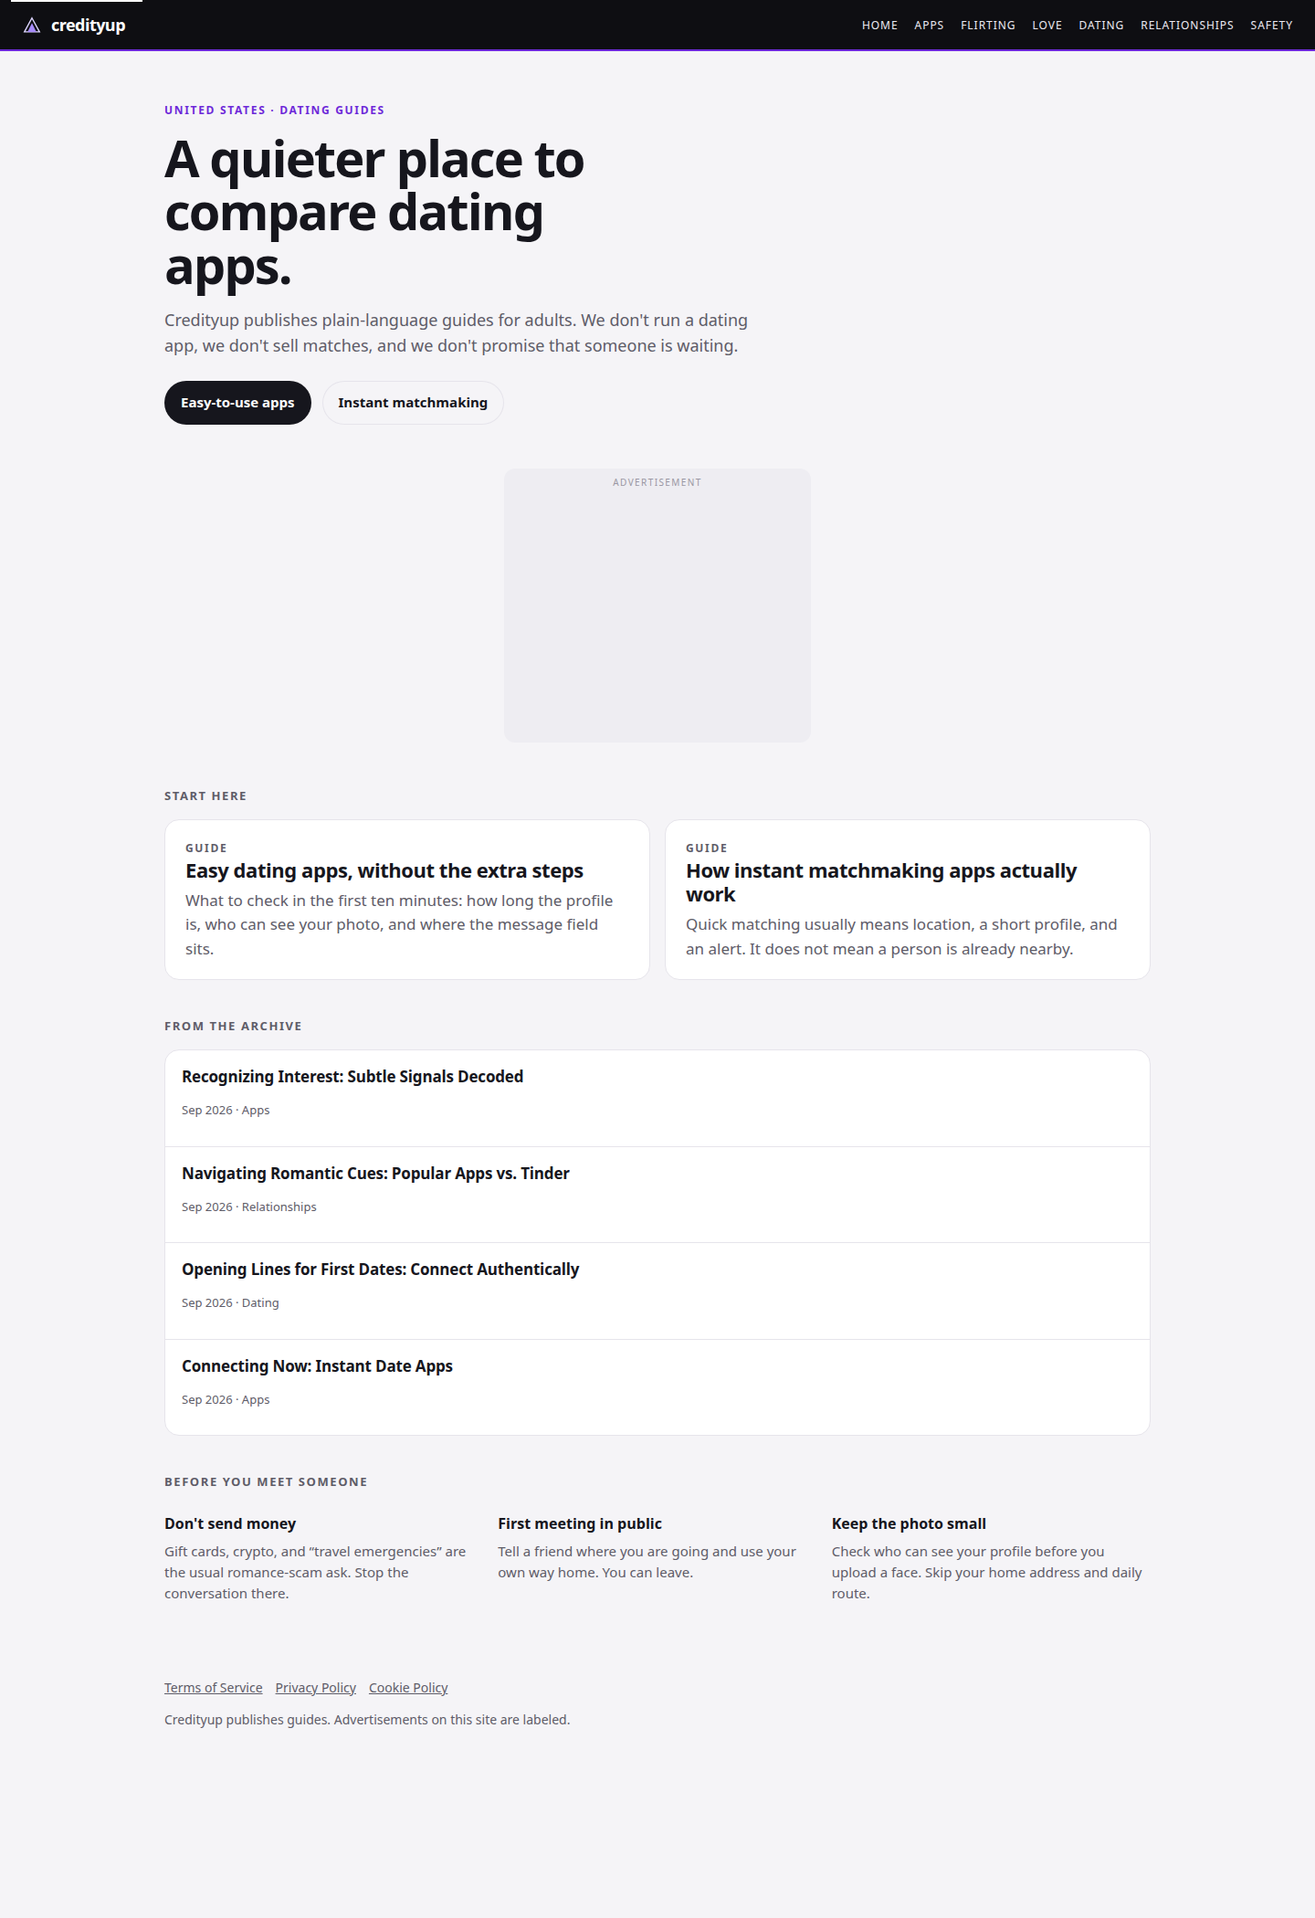
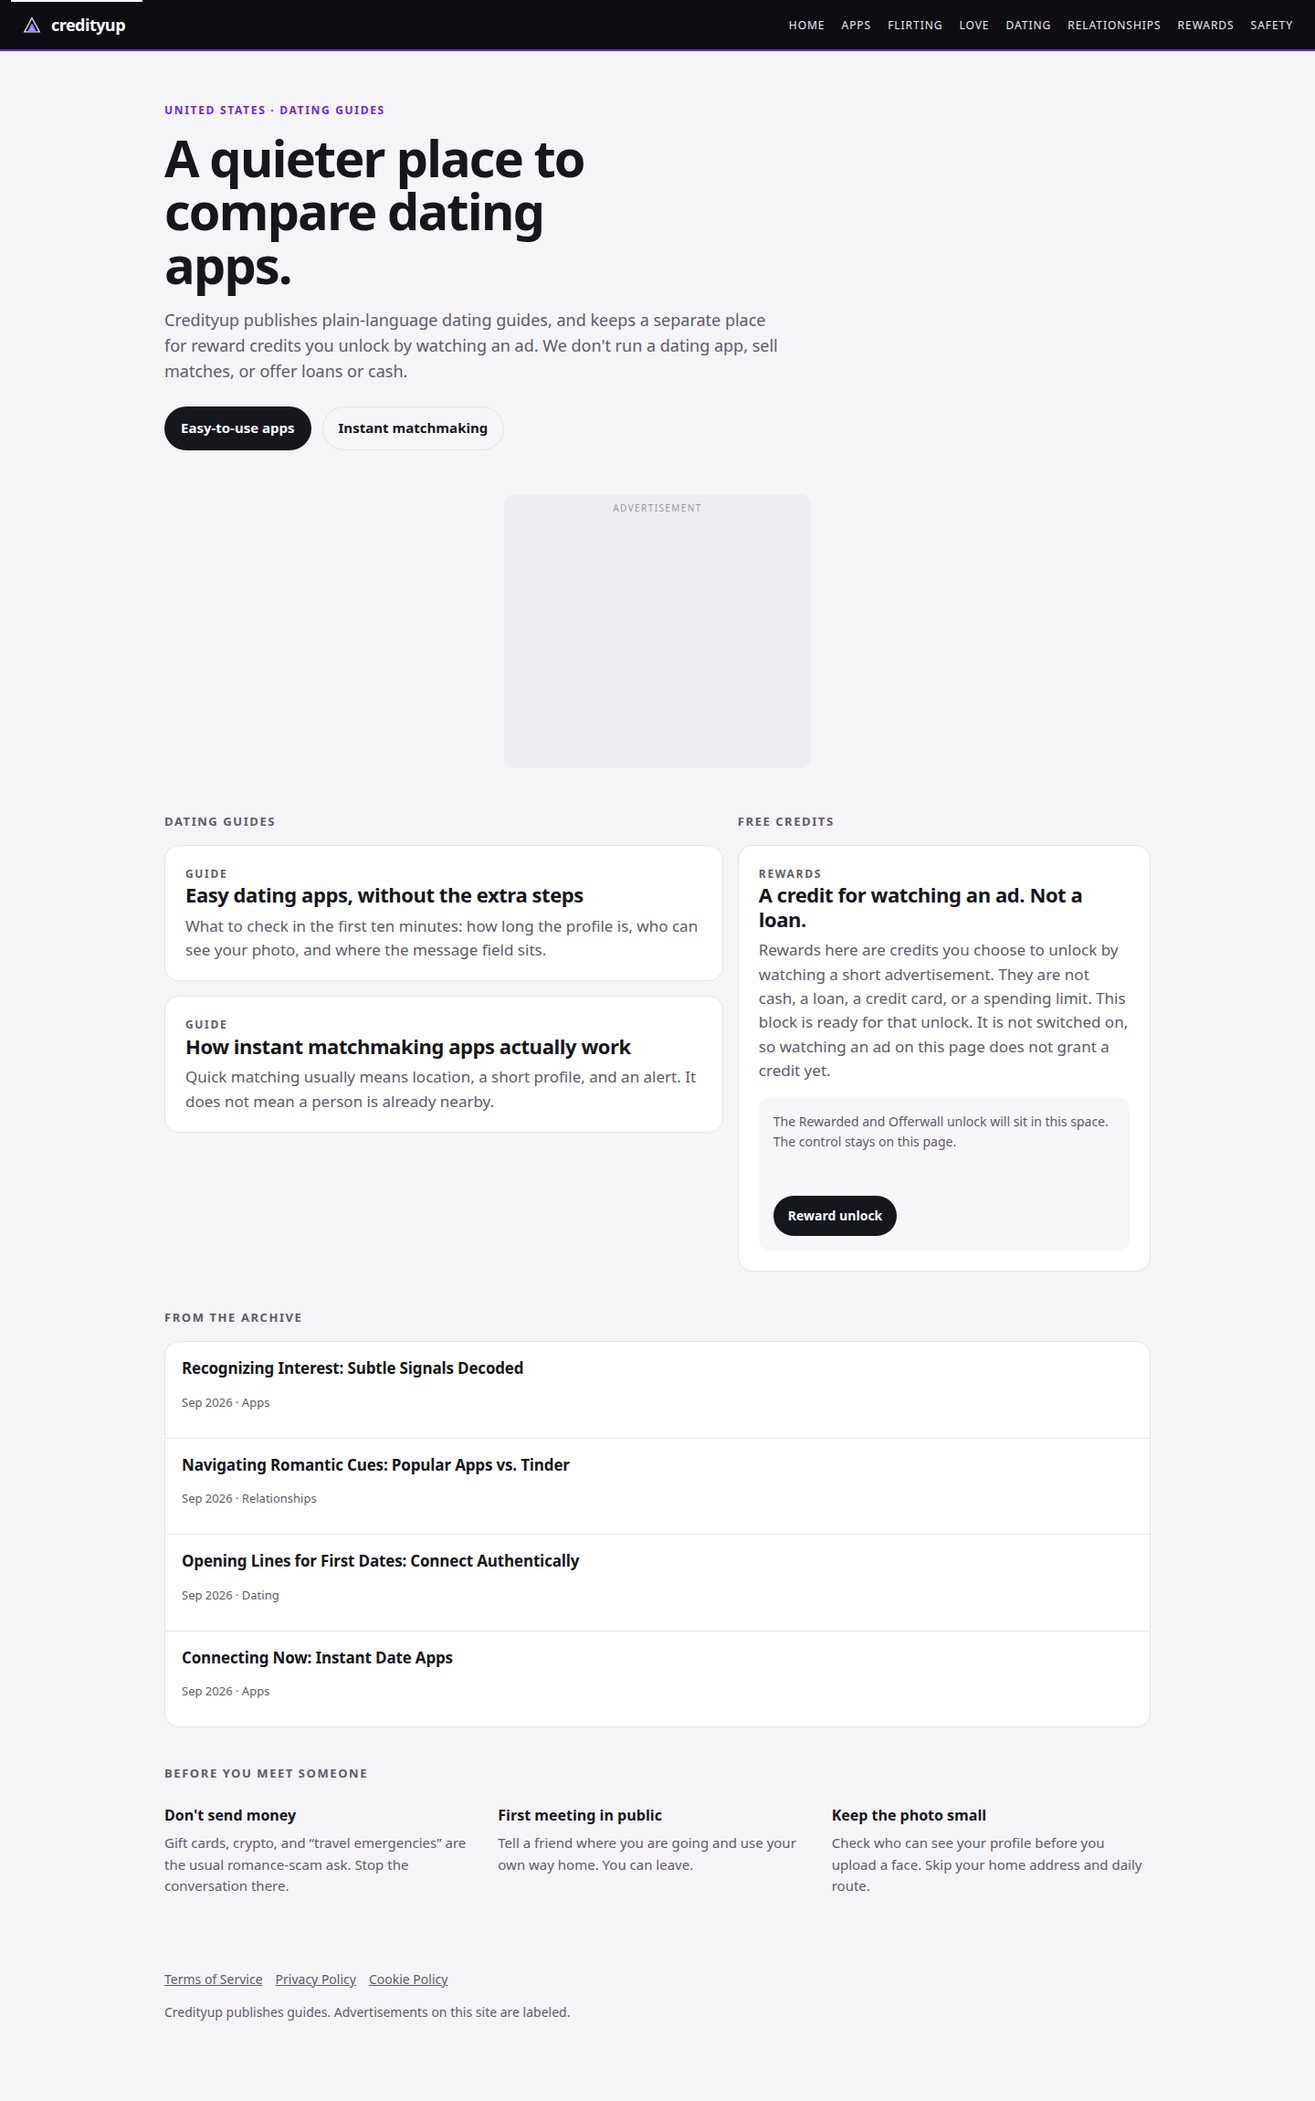
Deixar o polo de créditos aberto ao lado dos guias de namoro.
A tag credits_rewarded fica no HTML e só pede anúncio quando a Winup criar a chave no manifesto. Nenhum unit de namoro, categoria ou hook do Rewarded foi removido.

diff --git a/us/preview/after-home.html b/us/preview/after-home.html
@@ -20,6 +20,7 @@
         <a href="/category/love/">Love</a>
         <a href="/category/dating/">Dating</a>
         <a href="/category/relationships/">Relationships</a>
+        <a href="#rewards">Rewards</a>
         <a href="#safety">Safety</a>
     </nav>
 </header>
@@ -27,7 +28,7 @@
     <section class="cy-hero">
         <p class="cy-kicker">United States · Dating guides</p>
         <h1>A quieter place to compare dating apps.</h1>
-        <p class="cy-lede">Credityup publishes plain-language guides for adults. We don't run a dating app, we don't sell matches, and we don't promise that someone is waiting.</p>
+        <p class="cy-lede">Credityup publishes plain-language dating guides, and keeps a separate place for reward credits you unlock by watching an ad. We don't run a dating app, sell matches, or offer loans or cash.</p>
         <div class="cy-actions">
             <a class="cy-btn cy-btn-primary" href="/best-easy-dating-apps-lp-01/">Easy-to-use apps</a>
             <a class="cy-btn cy-btn-ghost" href="/instant-matchmaking-apps-lp-02/">Instant matchmaking</a>
@@ -36,19 +37,35 @@
     <aside class="cy-slot winup-ad-block winup-ad-block-1" style="min-height:300px" aria-label="Advertisement">
         <span class="cy-slot-label">Advertisement</span>
     </aside>
-    <section class="cy-section" id="guides">
-        <h2>Start here</h2>
-        <div class="cy-guides">
-            <article class="cy-guide">
-                <p class="cy-kicker">Guide</p>
-                <h3><a href="/best-easy-dating-apps-lp-01/">Easy dating apps, without the extra steps</a></h3>
-                <p>What to check in the first ten minutes: how long the profile is, who can see your photo, and where the message field sits.</p>
-            </article>
-            <article class="cy-guide">
-                <p class="cy-kicker">Guide</p>
-                <h3><a href="/instant-matchmaking-apps-lp-02/">How instant matchmaking apps actually work</a></h3>
-                <p>Quick matching usually means location, a short profile, and an alert. It does not mean a person is already nearby.</p>
-            </article>
+    <section class="cy-section" aria-label="Dating guides and rewards">
+        <div class="cy-poles">
+            <div id="guides">
+                <h2>Dating guides</h2>
+                <div class="cy-guides-stack">
+                    <article class="cy-guide">
+                        <p class="cy-kicker">Guide</p>
+                        <h3><a href="/best-easy-dating-apps-lp-01/">Easy dating apps, without the extra steps</a></h3>
+                        <p>What to check in the first ten minutes: how long the profile is, who can see your photo, and where the message field sits.</p>
+                    </article>
+                    <article class="cy-guide">
+                        <p class="cy-kicker">Guide</p>
+                        <h3><a href="/instant-matchmaking-apps-lp-02/">How instant matchmaking apps actually work</a></h3>
+                        <p>Quick matching usually means location, a short profile, and an alert. It does not mean a person is already nearby.</p>
+                    </article>
+                </div>
+            </div>
+            <div id="rewards">
+                <h2>Free credits</h2>
+                <article class="cy-reward-panel">
+                    <p class="cy-kicker">Rewards</p>
+                    <h3>A credit for watching an ad. Not a loan.</h3>
+                    <p>Rewards here are credits you choose to unlock by watching a short advertisement. They are not cash, a loan, a credit card, or a spending limit. This block is ready for that unlock. It is not switched on, so watching an ad on this page does not grant a credit yet.</p>
+                    <div class="cy-reward-mount" id="cy-reward-mount">
+                        <p>The Rewarded and Offerwall unlock will sit in this space. The control stays on this page.</p>
+                        <a id="cy-reward-unlock" href="#rewards">Reward unlock</a>
+                    </div>
+                </article>
+            </div>
         </div>
     </section>
     <section class="cy-section">

diff --git a/shared/plugins/credityup-platform/assets/home.css b/shared/plugins/credityup-platform/assets/home.css
@@ -166,11 +166,48 @@ body.admin-bar .cy-bar { top: 32px; }
   color: var(--cy-muted);
   font-weight: 650;
 }
-.cy-guides {
+.cy-poles {
   display: grid;
-  grid-template-columns: 1fr 1fr;
+  grid-template-columns: 1.15fr 0.85fr;
   gap: 16px;
+  align-items: start;
 }
+.cy-guides-stack { display: grid; gap: 16px; }
+.cy-reward-panel {
+  background: var(--cy-card);
+  border: 1px solid var(--cy-line);
+  border-radius: 16px;
+  padding: 22px;
+}
+.cy-reward-panel h3 { margin: 0 0 8px; font-size: 22px; letter-spacing: -0.02em; line-height: 1.2; }
+.cy-reward-panel > p { margin: 0; color: var(--cy-muted); }
+.cy-reward-mount {
+  min-height: 168px;
+  margin-top: 16px;
+  padding: 16px;
+  border-radius: 12px;
+  background: #f7f6f9;
+  display: flex;
+  flex-direction: column;
+  justify-content: space-between;
+  gap: 14px;
+  box-sizing: border-box;
+}
+.cy-reward-mount p { margin: 0; color: var(--cy-muted); font-size: 14px; }
+#cy-reward-unlock {
+  align-self: flex-start;
+  display: inline-flex;
+  align-items: center;
+  min-height: 44px;
+  padding: 0 16px;
+  border-radius: 999px;
+  background: var(--cy-ink);
+  color: #fff;
+  text-decoration: none;
+  font-size: 14px;
+  font-weight: 650;
+}
+winupads[tag="credits_rewarded"] { display: none; }
 .cy-guide {
   background: var(--cy-card);
   border: 1px solid var(--cy-line);
@@ -211,11 +248,11 @@ body.admin-bar .cy-bar { top: 32px; }
 .cy-foot a { color: var(--cy-muted); }
 
 @media (max-width: 720px) {
-  :root { --cy-bar: 108px; }
+  :root { --cy-bar: 128px; }
   .cy-bar { padding: 8px 14px; gap: 8px 14px; flex-wrap: wrap; align-content: center; }
   .cy-nav { margin-left: 0; width: 100%; flex-wrap: wrap; row-gap: 2px; }
   .cy-hero { padding-top: 28px; }
-  .cy-guides, .cy-safety { grid-template-columns: 1fr; }
+  .cy-poles, .cy-safety { grid-template-columns: 1fr; }
 }
 
 @media (prefers-reduced-motion: reduce) {

diff --git a/shared/plugins/credityup-platform/templates/front-page.php b/shared/plugins/credityup-platform/templates/front-page.php
@@ -32,6 +32,7 @@ $slots = credityup_home_slots();
         <a href="<?php echo esc_url(home_url('/category/love/')); ?>">Love</a>
         <a href="<?php echo esc_url(home_url('/category/dating/')); ?>">Dating</a>
         <a href="<?php echo esc_url(home_url('/category/relationships/')); ?>">Relationships</a>
+        <a href="#rewards">Rewards</a>
         <a href="#safety">Safety</a>
     </nav>
 </header>
@@ -39,7 +40,7 @@ $slots = credityup_home_slots();
     <section class="cy-hero">
         <p class="cy-kicker">United States · Dating guides</p>
         <h1>A quieter place to compare dating apps.</h1>
-        <p class="cy-lede">Credityup publishes plain-language guides for adults. We don't run a dating app, we don't sell matches, and we don't promise that someone is waiting.</p>
+        <p class="cy-lede">Credityup publishes plain-language dating guides, and keeps a separate place for reward credits you unlock by watching an ad. We don't run a dating app, sell matches, or offer loans or cash.</p>
         <div class="cy-actions">
             <a class="cy-btn cy-btn-primary" href="<?php echo esc_url(home_url('/best-easy-dating-apps-lp-01/')); ?>">Easy-to-use apps</a>
             <a class="cy-btn cy-btn-ghost" href="<?php echo esc_url(home_url('/instant-matchmaking-apps-lp-02/')); ?>">Instant matchmaking</a>
@@ -60,19 +61,37 @@ $slots = credityup_home_slots();
     </aside>
     <?php endforeach; ?>
 
-    <section class="cy-section" id="guides">
-        <h2>Start here</h2>
-        <div class="cy-guides">
-            <article class="cy-guide">
-                <p class="cy-kicker">Guide</p>
-                <h3><a href="<?php echo esc_url(home_url('/best-easy-dating-apps-lp-01/')); ?>">Easy dating apps, without the extra steps</a></h3>
-                <p>What to check in the first ten minutes: how long the profile is, who can see your photo, and where the message field sits.</p>
-            </article>
-            <article class="cy-guide">
-                <p class="cy-kicker">Guide</p>
-                <h3><a href="<?php echo esc_url(home_url('/instant-matchmaking-apps-lp-02/')); ?>">How instant matchmaking apps actually work</a></h3>
-                <p>Quick matching usually means location, a short profile, and an alert. It does not mean a person is already nearby.</p>
-            </article>
+    <section class="cy-section" aria-label="Dating guides and rewards">
+        <div class="cy-poles">
+            <div id="guides">
+                <h2>Dating guides</h2>
+                <div class="cy-guides-stack">
+                    <article class="cy-guide">
+                        <p class="cy-kicker">Guide</p>
+                        <h3><a href="<?php echo esc_url(home_url('/best-easy-dating-apps-lp-01/')); ?>">Easy dating apps, without the extra steps</a></h3>
+                        <p>What to check in the first ten minutes: how long the profile is, who can see your photo, and where the message field sits.</p>
+                    </article>
+                    <article class="cy-guide">
+                        <p class="cy-kicker">Guide</p>
+                        <h3><a href="<?php echo esc_url(home_url('/instant-matchmaking-apps-lp-02/')); ?>">How instant matchmaking apps actually work</a></h3>
+                        <p>Quick matching usually means location, a short profile, and an alert. It does not mean a person is already nearby.</p>
+                    </article>
+                </div>
+            </div>
+            <div id="rewards">
+                <h2>Free credits</h2>
+                <article class="cy-reward-panel">
+                    <p class="cy-kicker">Rewards</p>
+                    <h3>A credit for watching an ad. Not a loan.</h3>
+                    <p>Rewards here are credits you choose to unlock by watching a short advertisement. They are not cash, a loan, a credit card, or a spending limit. This block is ready for that unlock. It is not switched on, so watching an ad on this page does not grant a credit yet.</p>
+                    <div class="cy-reward-mount" id="cy-reward-mount">
+                        <p>The Rewarded and Offerwall unlock will sit in this space. The control stays on this page.</p>
+                        <a id="cy-reward-unlock" href="#rewards">Reward unlock</a>
+                        <?php /* Inert until the ad-slots manifest has web_credits_rewarded / mobile_credits_rewarded. See PLAN.md. */ ?>
+                        <winupads tag="credits_rewarded" rewarded trigger="#cy-reward-unlock" prompt="Watch a short ad to unlock a reward credit. This is not cash or a loan." prompt-yes="Watch the ad" prompt-no="Not now"></winupads>
+                    </div>
+                </article>
+            </div>
         </div>
     </section>
 

diff --git a/shared/tests/check_platform.py b/shared/tests/check_platform.py
@@ -86,6 +86,12 @@ def main():
         fail("home slot is not reserved")
     if "wp_head()" not in home or "wp_footer()" not in home:
         fail("home template dropped wp_head/wp_footer")
+    if 'tag="credits_rewarded"' not in home or 'trigger="#cy-reward-unlock"' not in home or 'id="rewards"' not in home:
+        fail("credits cascade mount missing")
+    if "loan" not in home.lower() and "not a loan" not in home.lower():
+        fail("rewards copy does not say this is not a loan")
+    if "<button" in home:
+        fail("home template added a button element")
 
     snippet4 = (ROOT / "shared/snippets/04_rewarded_same_page_fix.html").read_text(encoding="utf-8")
     snippet5 = (ROOT / "shared/snippets/05_cy_modern_loader.html").read_text(encoding="utf-8")

diff --git a/PLAN.md b/PLAN.md
@@ -51,11 +51,11 @@ Página inicial só em host `us.credityup.com` (filtro `credityup_home_enabled` 
 
 Arquitetura, de cima para baixo:
 
-1. Barra preta fixa (56px, `padding-top` igual no `body`, sem salto). Wordmark em SVG, sem o PNG de ~500KB. Links atuais: Home, Apps, Flirting, Love, Dating, Relationships, mais âncora Safety. Nav com scroll horizontal no mobile, sem menu JS.
-2. Hero só com texto (LCP). Sem imagem, sem webfont. Duas ações: as duas LPs.
-3. Slot in-page único.
-4. Dois guias (as LPs), em texto.
-5. Quatro posts reais (`WP_Query`, sem thumbnail).
+1. Barra preta fixa (56px no desktop; no mobile a altura sobe para caber a nav em duas linhas, `padding-top` igual no `body`). Wordmark em SVG, sem o PNG de ~500KB. Links atuais: Home, Apps, Flirting, Love, Dating, Relationships, mais âncoras Rewards e Safety. Nada de categoria é removido.
+2. Hero só com texto (LCP). Sem imagem, sem webfont. Duas ações: as duas LPs. A frase deixa claro que crédito aqui é recompensa por anúncio, não empréstimo nem dinheiro.
+3. Slot in-page único (`content1`).
+4. Dois polos lado a lado: guias de namoro à esquerda, bloco `#rewards` à direita. No mobile o bloco de recompensa vem logo abaixo dos guias.
+5. Quatro posts reais (`WP_Query`, sem thumbnail). O arquivo não filtra categoria, então um post de créditos que venha a existir continua aparecendo.
 6. Faixa de segurança (dinheiro, encontro, foto).
 7. Rodapé com Terms, Privacy, Cookies.
 
@@ -65,8 +65,35 @@ Arquitetura, de cima para baixo:
 |---|---|---|---|---|
 | In-feed | `content1` | Abaixo do hero, classe `winup-ad-block winup-ad-block-1`, label Advertisement | `min-height:300px`, largura máx. 336px, sem `contain:size` (o anúncio pode ser 300x250) | Tag que o manifesto já conhece nas LPs. A reserva existe antes do `wads.js` correr. |
 | Interstitial | `interstitial` | Head, plugin | Nenhuma (out-of-page) | Já impresso pelo `winup-ad-engine`. Não duplicar. |
-| Rewarded + Offerwall | slots `…_rewarded_20260930` e redirect do modal | Plugin + HFCM #4 | Nenhuma | Fora da página. O prompt de push fica em `z-index` baixo e só aparece se `#masterRewarded` não estiver `.active` e o loader não estiver na tela. |
+| Rewarded de namoro + Offerwall | slots `…_rewarded_20260930` e redirect do modal | Plugin + HFCM #4, em toda página via `wp_footer` | Nenhuma | Fora da página. O prompt de push fica em `z-index` baixo e só aparece se `#masterRewarded` não estiver `.active` e o loader não estiver na tela. |
+| Cascata de créditos (desligada) | `credits_rewarded` com `rewarded` e `trigger="#cy-reward-unlock"` | Dentro de `#rewards` | O cartão do controle tem `min-height:168px`. O anúncio em si é out-of-page, então não se reserva 300px para ele | A tag só pede anúncio quando o manifesto tiver a chave. Ver a seção abaixo. |
 | `content2`, `top`, `sidebar`, âncora | — | Não impressos | — | Tag ausente no manifesto vira buraco de 300px. Quando a Winup criar `web_content2` / `web_sidebar`, dá para acrescentar pelo filtro `credityup_home_slots`. |
+
+### Cascata de créditos (aberta, ainda desligada)
+
+Em 18/11/2026 o sitemap de `us.credityup.com` não tem página, categoria nem tag de credits/rewards. Categorias no ar: Apps, Flirting, Love, Dating, Relationships. O mesmo vale para `de.credityup.com` (apps, flirten, beziehungen, liebe, dating). Existem páginas fora desses polos (`/insurance-referral-income-how-it-works/`, `/compare-car-and-home-insurance-quotes/`, duas de certificado de marketing). O template não apaga post, página, categoria nem tag, e não mexe em `wads.js`, no head do `winup-ad-engine` nem no HFCM #4. Essas páginas de seguro e marketing não entram na capa: não são guia de namoro e não são o desbloqueio de recompensa.
+
+O que já está no site e permanece:
+
+- `wads.js` síncrono, rede `23340104016`. A escada de preço (chave `price`, ou `priceKey` se o manifesto trocar) já inclui os degraus de 300 a 1050. Ela só anda se o JSON de `erp.winup.network/api/public/ad-slots?domain=us.credityup.com` trouxer `cascade` ou `cascadesUtm` com `base`, `lowerBound`, `retryLimit` e, se quiserem, `decayPct` e `retryTimeout`.
+- Rewarded de namoro: plugin, units `us_credityup_com_web_rewarded_20260930` e `…_mobile_rewarded_20260930`, modal `#masterRewarded`. Offerwall desse fluxo é o destino do botão do modal (viralnetwork), reescrito para a própria URL pelo HFCM #4. Não foi alterado.
+- Interstitial no head, impresso pelo plugin. A home não imprime um segundo.
+
+O que a home acrescenta, sem comprar o anúncio:
+
+- `#cy-reward-unlock` é um link para `#rewards`, não um `<button>` (o pixel trata todo button como `InitiateCheckout`).
+- `<winupads tag="credits_rewarded" rewarded trigger="#cy-reward-unlock" …>`. O `wads.js` só monta se existir `web_credits_rewarded` ou `mobile_credits_rewarded`. Sem a chave, o elemento é ignorado e o clique não abre anúncio nem sai do site.
+
+Para a Winup ligar a cascata, sem deploy novo:
+
+1. Criar no manifesto do domínio `web_credits_rewarded` e `mobile_credits_rewarded`.
+2. `path` de um ad unit novo, separado dos units de namoro. Piso de 300–1050 no unit que as LPs já usam muda o preço do tráfego de Meta.
+3. `cascade.base` perto de 1050 e `cascade.lowerBound` perto de 300. A escada no `wads.js` já tem esses números; o tema não hardcoda preço.
+4. Tráfego direto: o script não expressa “UTM ausente”. `cascadesUtm` só casa um valor que já está na sessão (`utm_source`, `utm_medium`, `src_type`, …). O isolamento é a tag existir só na home. Quem está na LP de namoro não pede esse unit. Um piso só para um UTM específico usa `cascadesUtm` ou `cascadePath`.
+5. Se o Offerwall for o redirect do modal e não o rewarded do GPT, ele continua no plugin. Não apontar `#cy-reward-unlock` para a viralnetwork: o HFCM #4 reescreve esse tipo de destino, e o href deste controle fica em `#rewards`.
+6. Nada a mudar em `wads.js`, no head block nem nas settings do `winup-ad-engine`.
+
+O texto diz que o desbloqueio ainda não está ligado, para não prometer um crédito que o GAM não entrega. Não há oferta de empréstimo, cartão ou dinheiro.
 
 O `wads.js` continua síncrono. Adiá-lo melhora o FCP e corta a cascata; fica fora deste PR.
 
